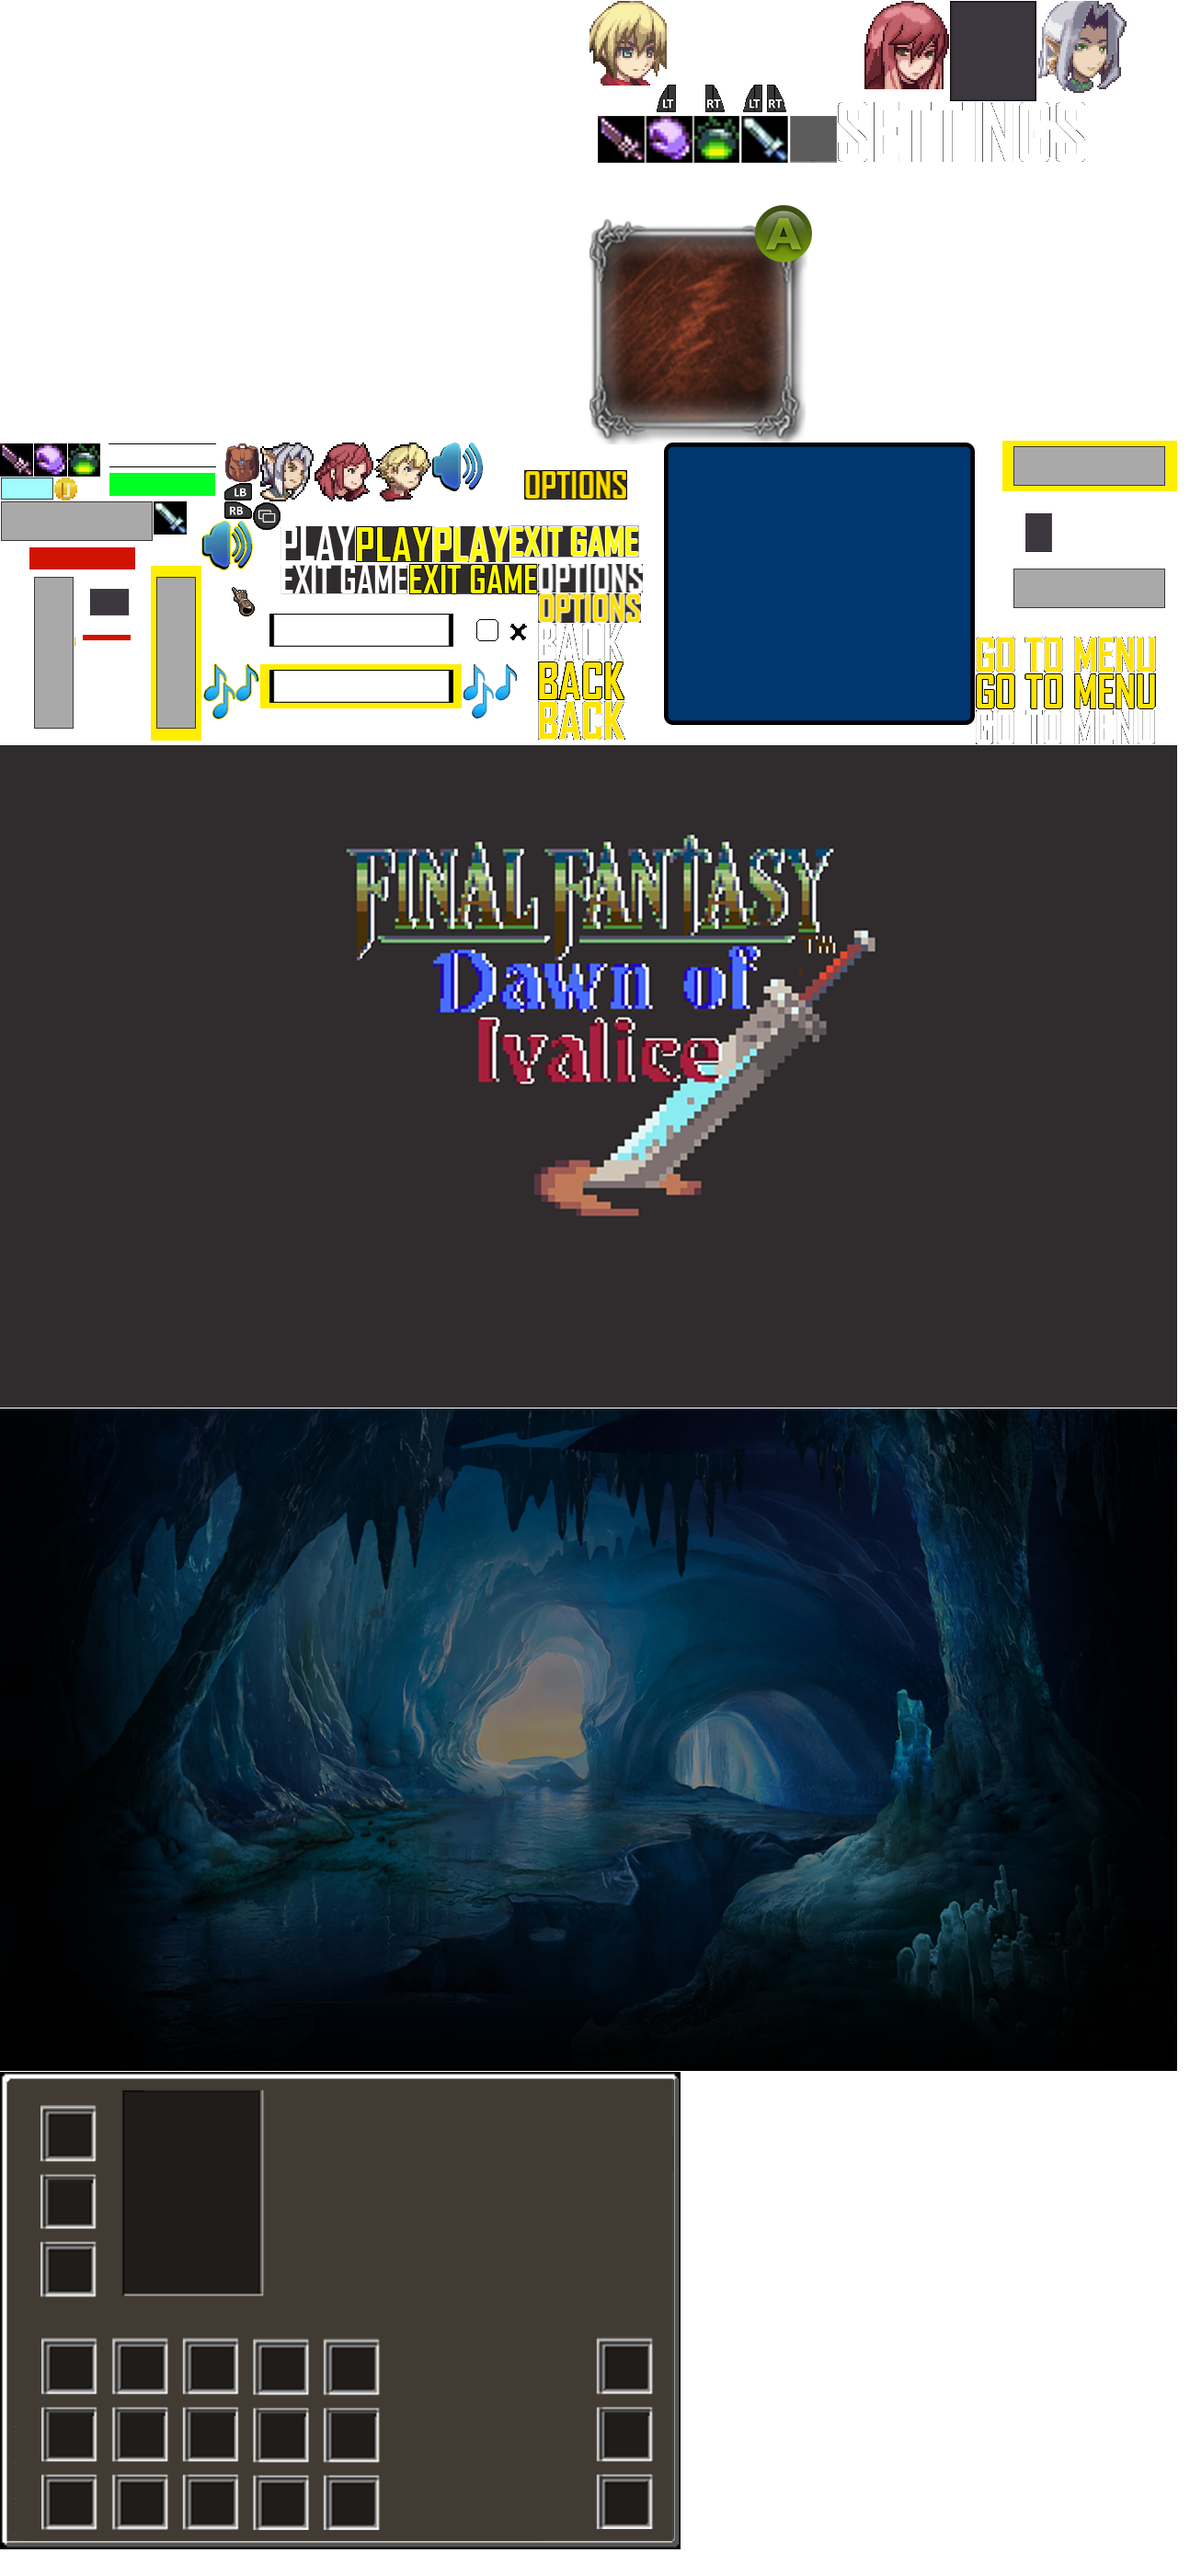
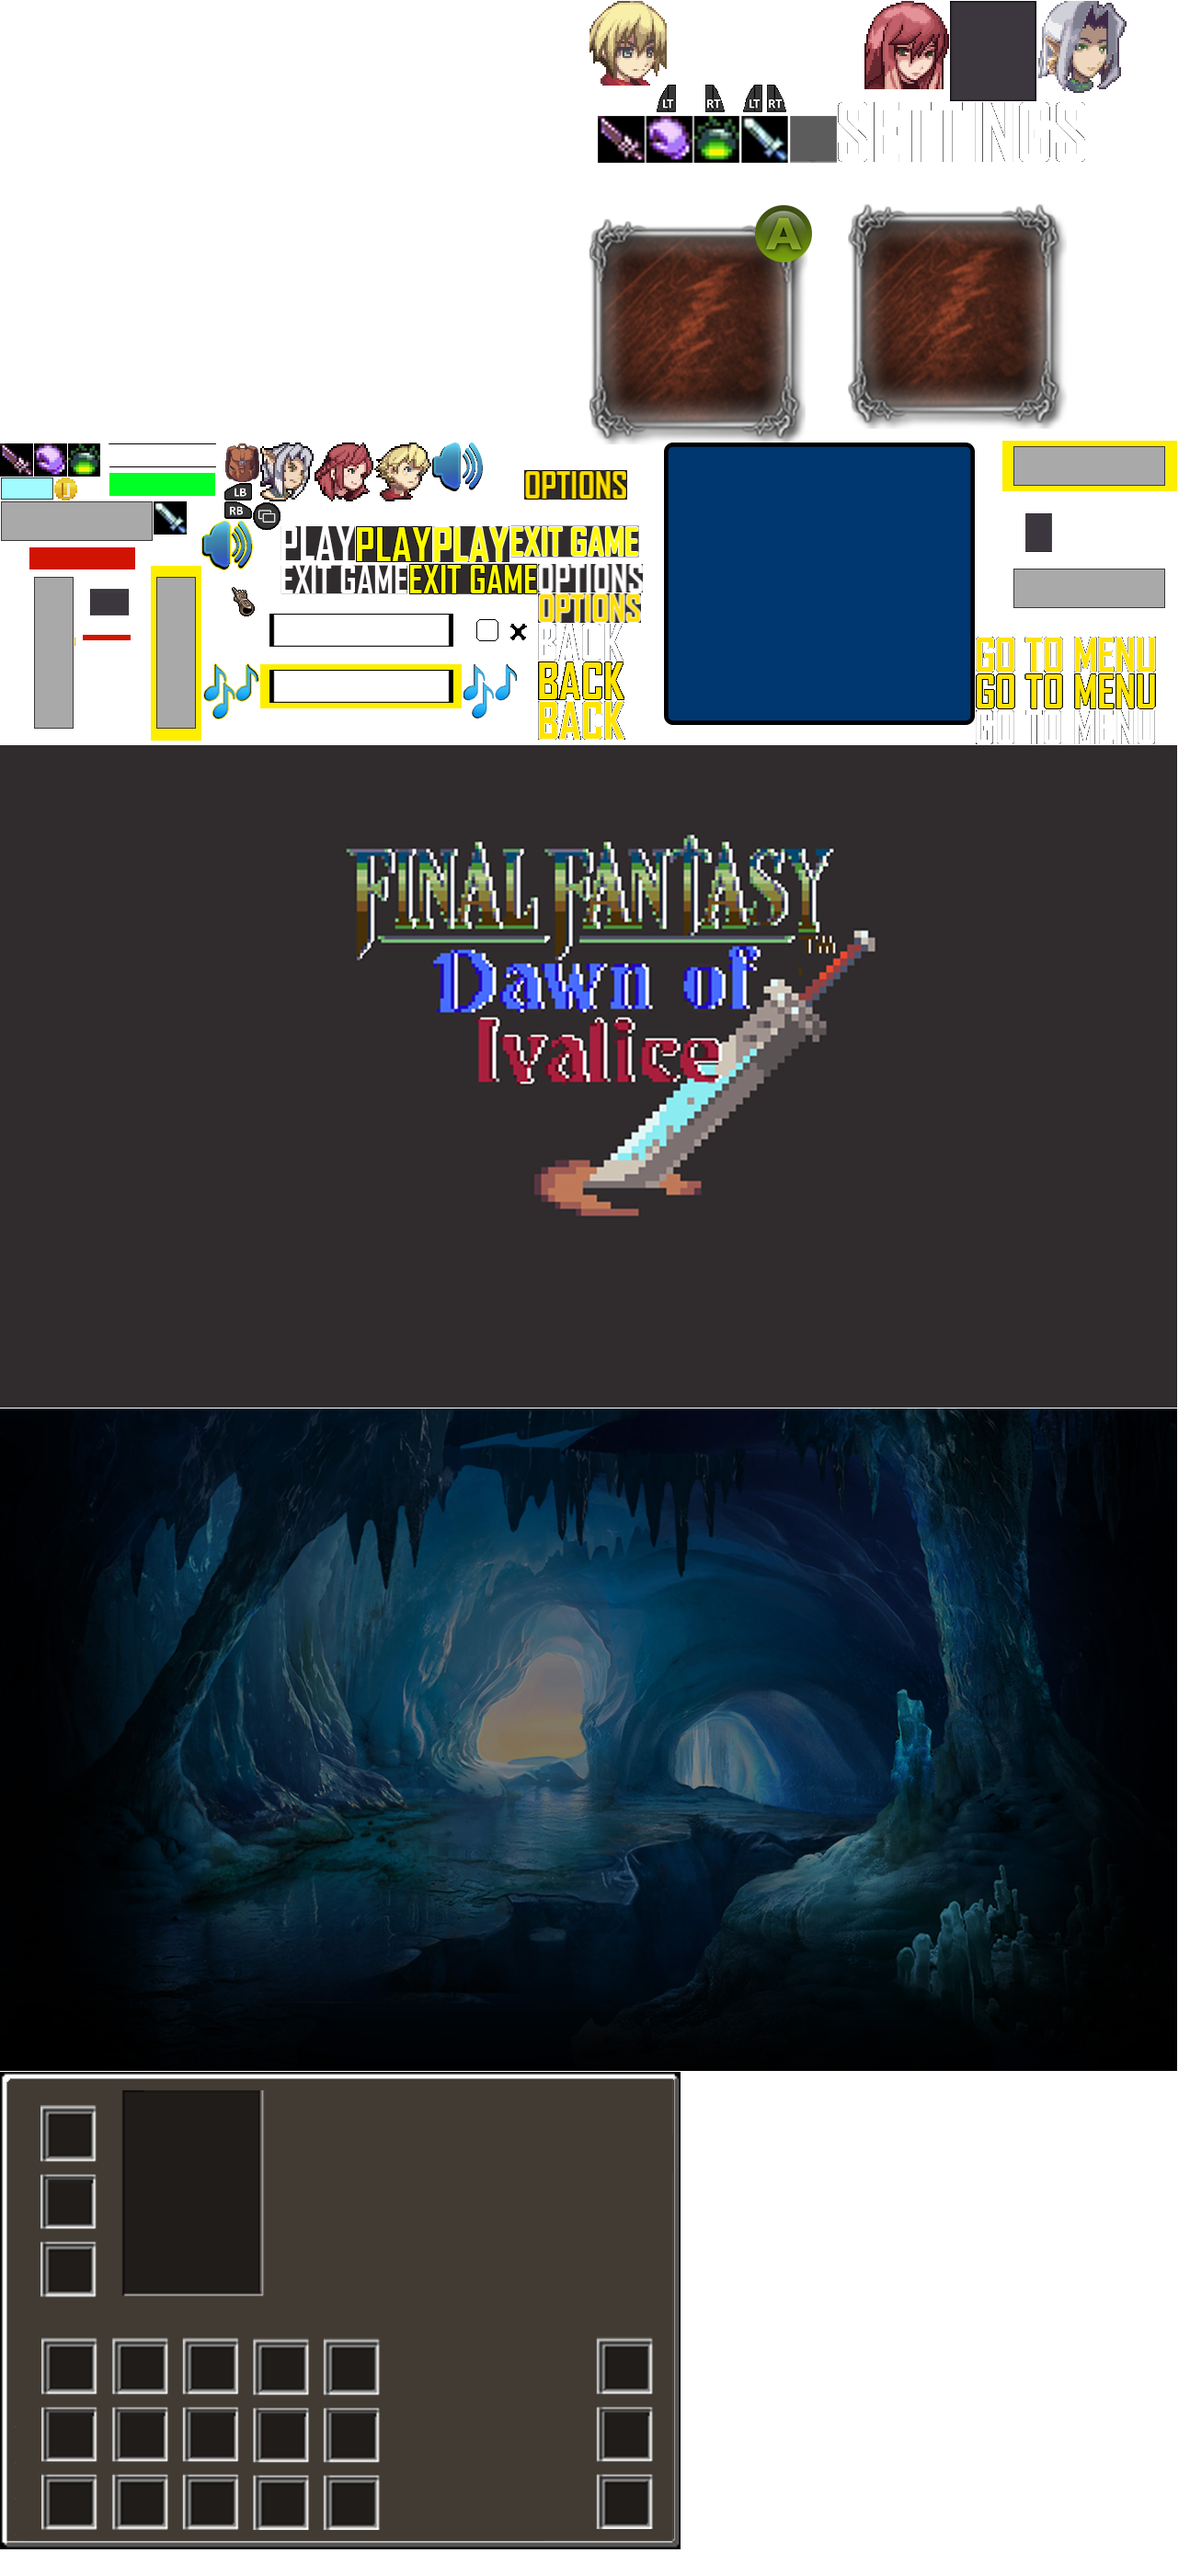
item panel in inventory with no A button

Changed region(s): [[0.711, 0.0621, 0.8964, 0.1864]]

diff --git a/Motor2D/UiItem_Inventory.cpp b/Motor2D/UiItem_Inventory.cpp
@@ -47,7 +47,7 @@ bool UiItem_Inventory::LoadElements()
 				}
 
 
-
+				(*iter)->MyDescription->panelWithButton->section = App->scene->lootPanelRectNoButton;   // change to panel with no button 
 
 				(*iter)->MyDescription->iconImageInventory = App->gui->AddSpecialImage(position, &(*iter)->MyDescription->iconImage->section, this, (*iter)->entityTex, (*iter)->MyDescription);
 				(*iter)->MyDescription->iconImageInventory->printFromLoot = true;

diff --git a/Motor2D/j1Scene.cpp b/Motor2D/j1Scene.cpp
@@ -395,6 +395,10 @@ void j1Scene::LoadUiElement(UiItem*parent, pugi::xml_node node)
 
 			lootPanelRect = section; 
 		}
+		else if (lootFlag == "lootNoButton")
+		{
+			lootPanelRectNoButton = section;
+		}
 	else
 		{                                  // this is useless now
 			if (isPanel != 1)

diff --git a/Motor2D/j1Scene.h b/Motor2D/j1Scene.h
@@ -58,6 +58,7 @@ public:
 	UiItem * inventory = nullptr;
 	UiItem_Label * coins_label = nullptr;
 	SDL_Rect lootPanelRect; 
+	SDL_Rect lootPanelRectNoButton;
 	UiItem_Inventory* inventoryItem = nullptr;
 	
 	bool debug = false;
